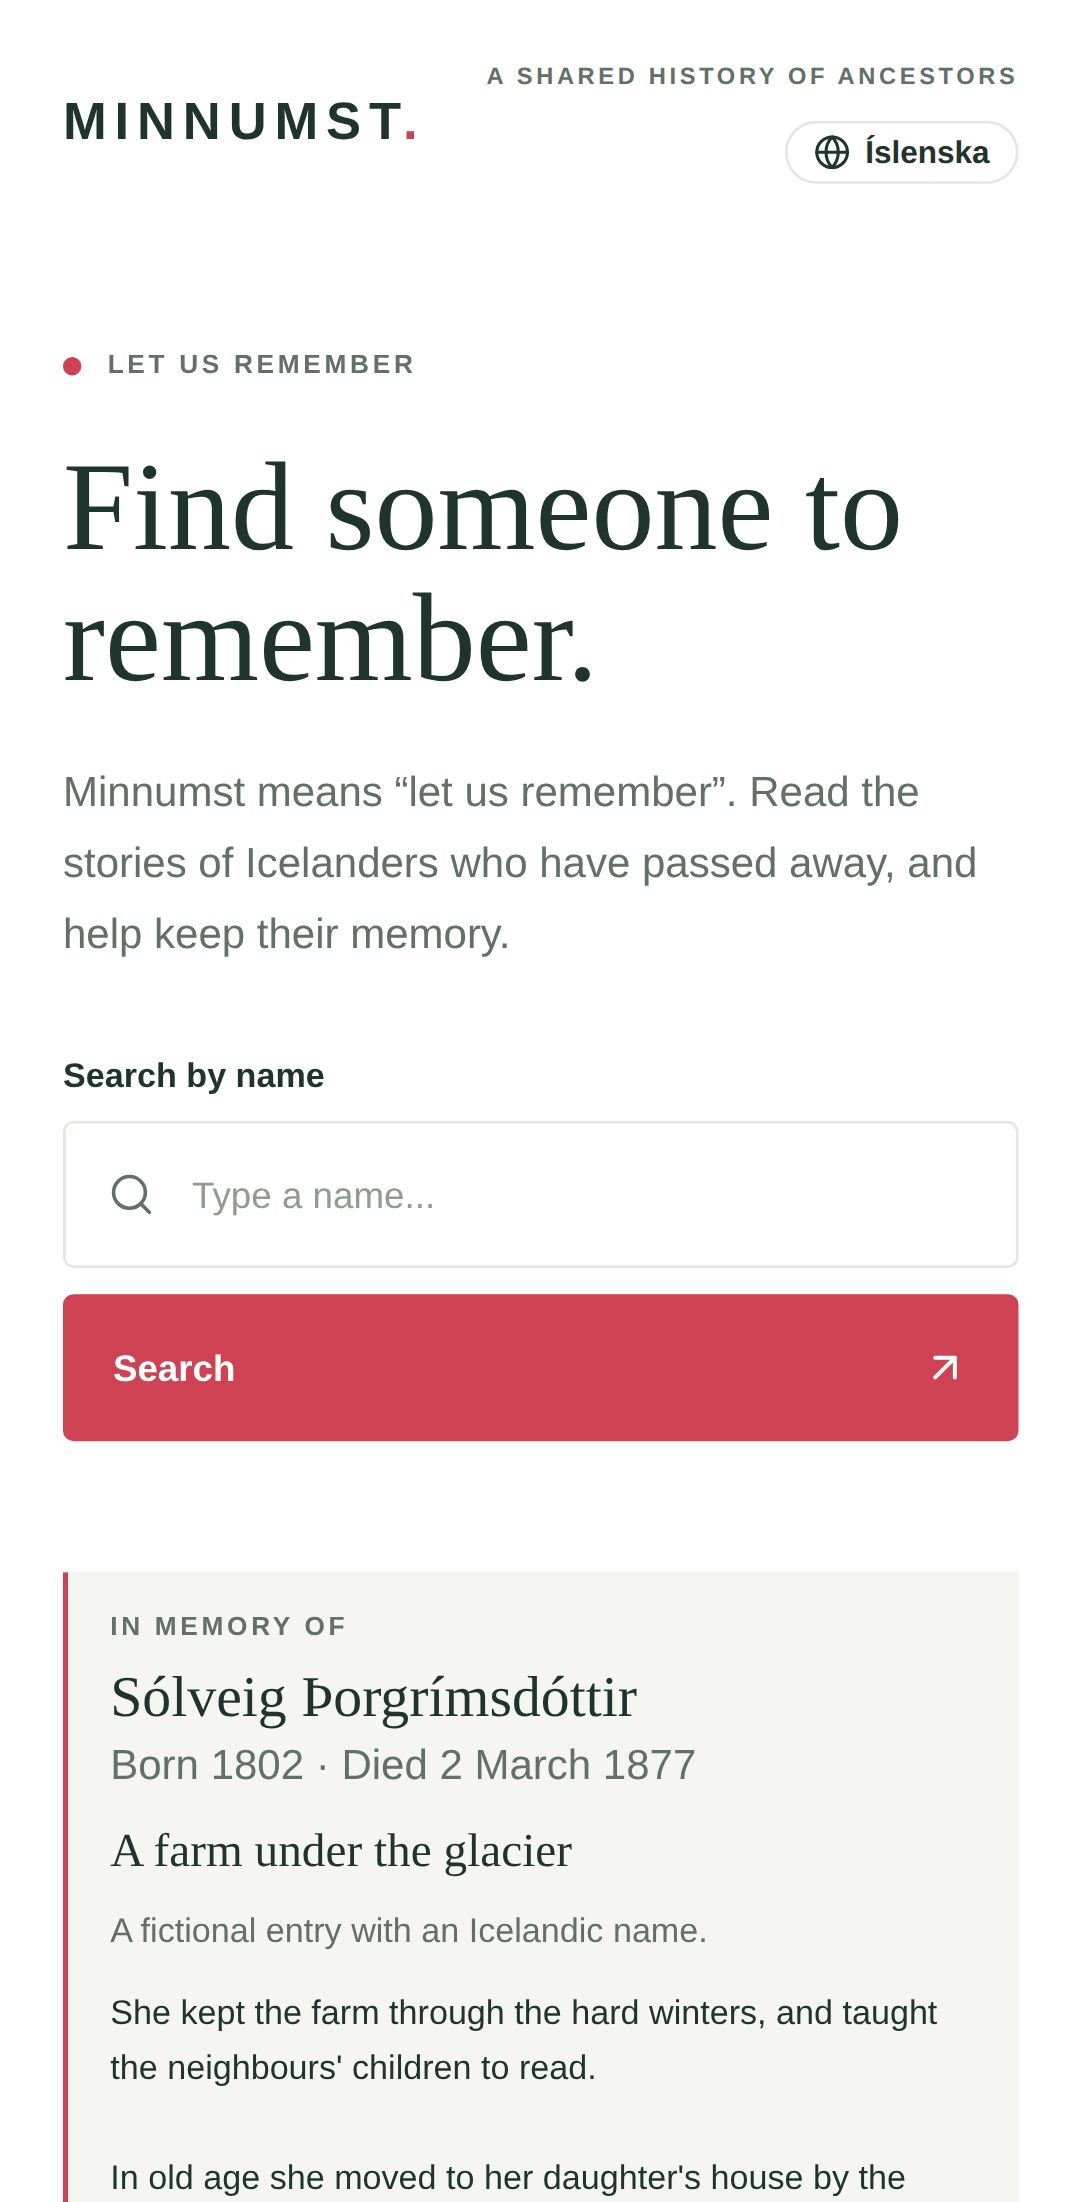
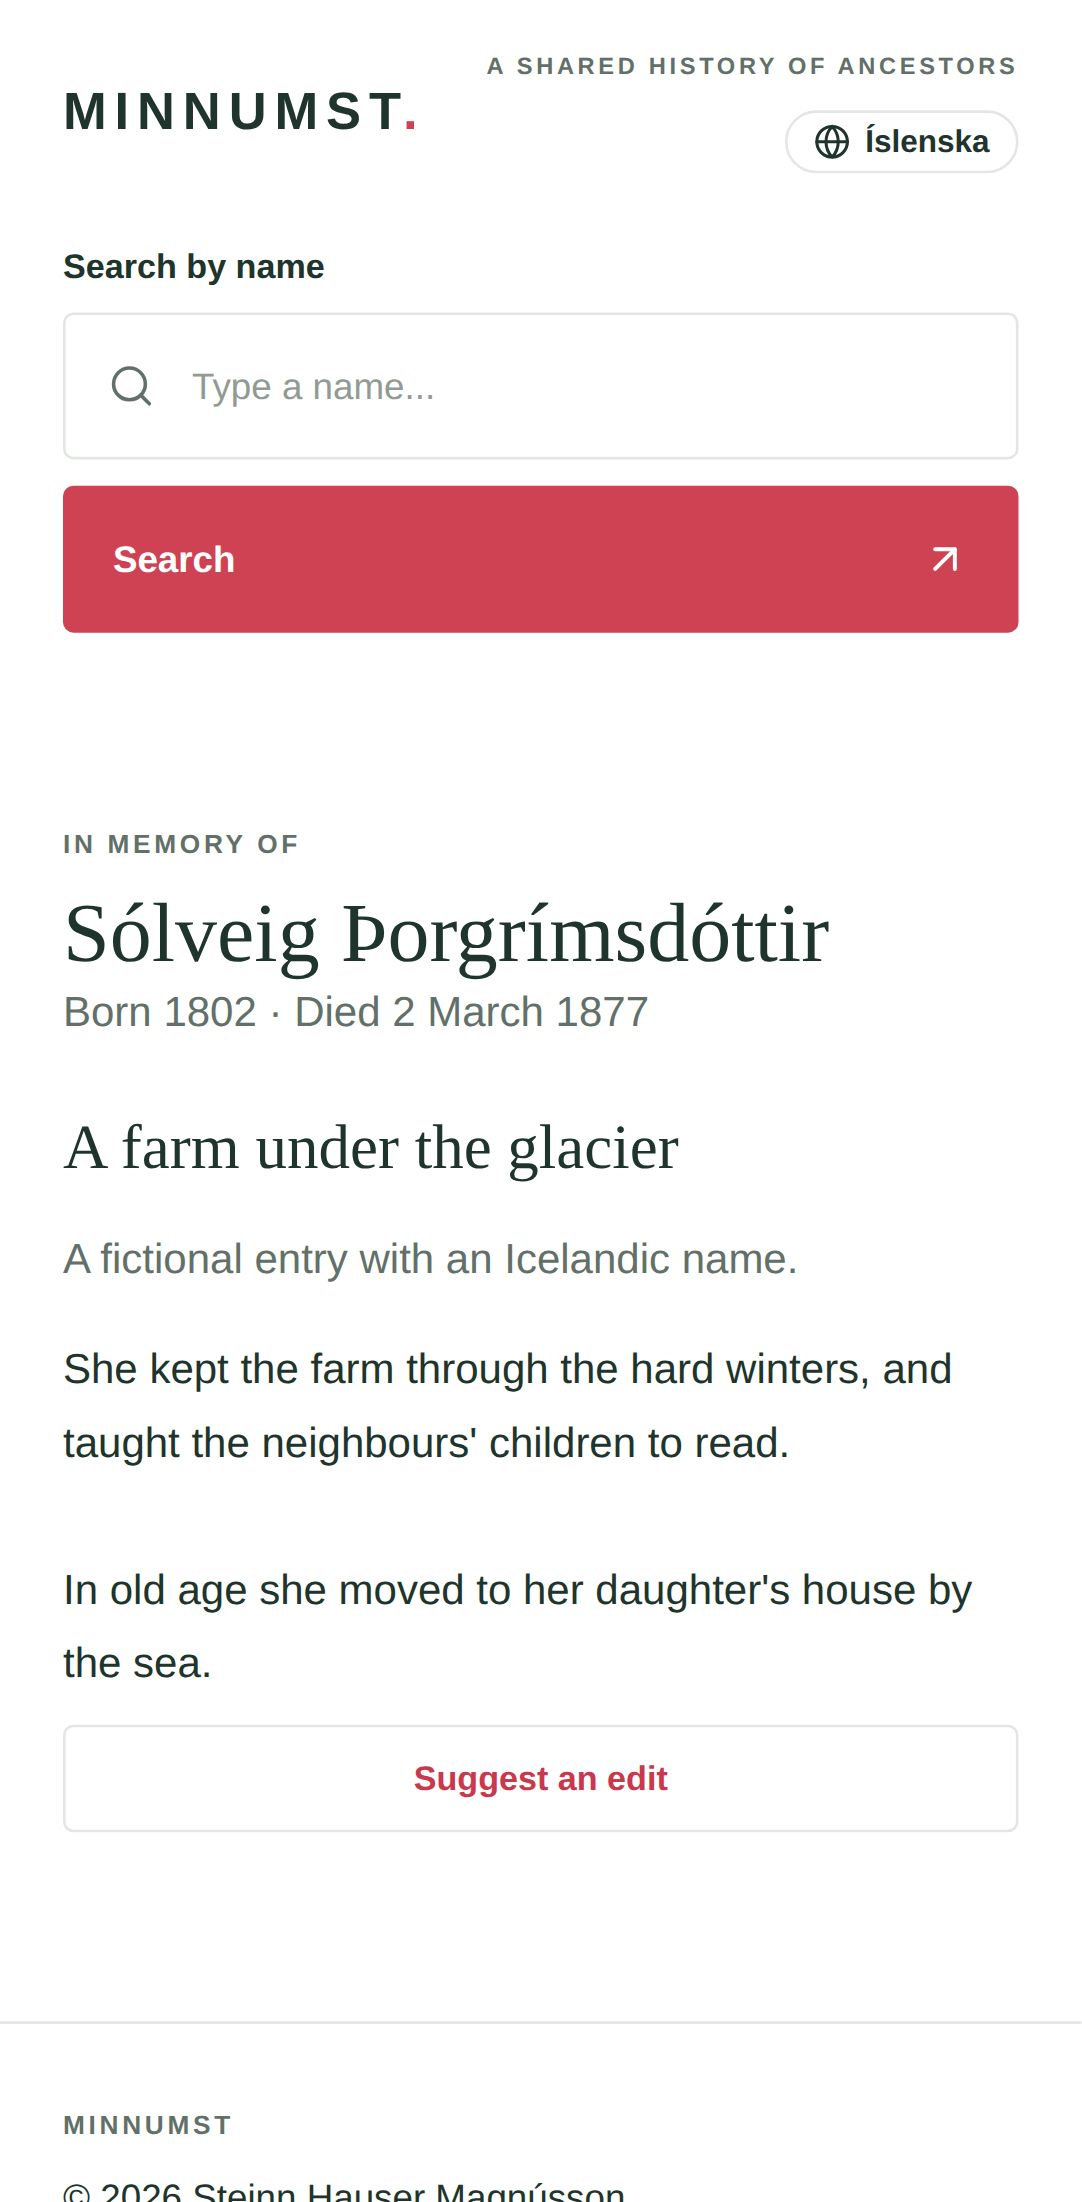
docs: update the screenshots for the new pages

diff --git a/README.md b/README.md
@@ -11,9 +11,9 @@ Minnumst has a public archive for reading stories, an editorial desk for writing
 It is self-hosted with OpenTofu, Ansible and Docker Compose behind Traefik, with Authentik guarding the editorial desk and everything editors do, on a host hardened against the CIS and NIST security frameworks.
 
 <p align="center">
-  <img src="docs/assets/screenshot-web.jpg" alt="Public archive: search beside a photograph of a turf-roofed church" width="72%">
+  <img src="docs/assets/screenshot-web.jpg" alt="Public archive: the search beside a framed photograph of a turf-roofed church" width="72%">
   &nbsp;
-  <img src="docs/assets/screenshot-mobile.jpg" alt="Public archive on a phone: search result and story" width="22%">
+  <img src="docs/assets/screenshot-mobile.jpg" alt="Public archive on a phone: a person\'s page with their story" width="22%">
 </p>
 <p align="center">
   <img src="docs/assets/screenshot-admin.png" alt="Editorial desk: list of people and the version history of one story" width="95%">

diff --git a/TODO.md b/TODO.md
@@ -57,7 +57,7 @@ Fill the archive from open sources while keeping to the [data protection rules](
 ## `api/`
 
 - [ ] Design the portrait and media contract with `admin/` and `deploy/`: upload authorisation, content type and size validation, metadata, retention and deletion, and delivery. Prefer object storage for the bytes with metadata in the database, unless storing them in PostgreSQL is a deliberate decision. Browsers never query the database directly.
-- [ ] Support autocomplete with bounded results and a predictable minimum query length. Benchmark the normalised-name `ILIKE` search on PostgreSQL, and add indexes (for example a `pg_trgm` GIN index) only from measured query plans.
+- [ ] Benchmark the normalised-name `ILIKE` search on PostgreSQL, and add indexes (for example a `pg_trgm` GIN index) only from measured query plans.
 - [ ] Localise validation and error messages only where the clients need it. Stored names and story content stay language-neutral.
 
 ## `web/`
